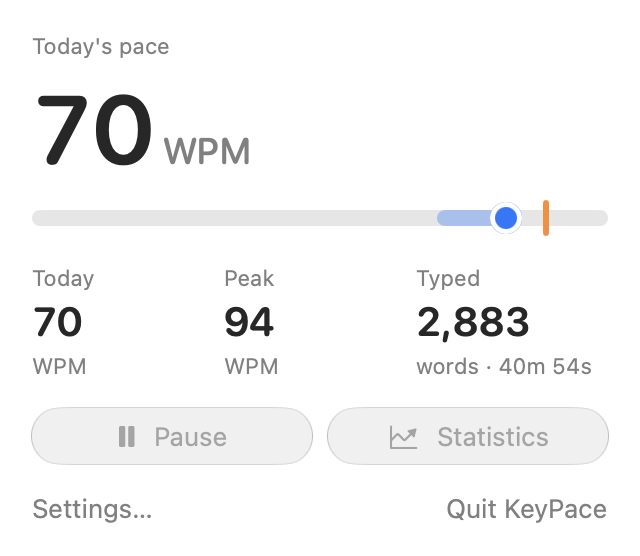
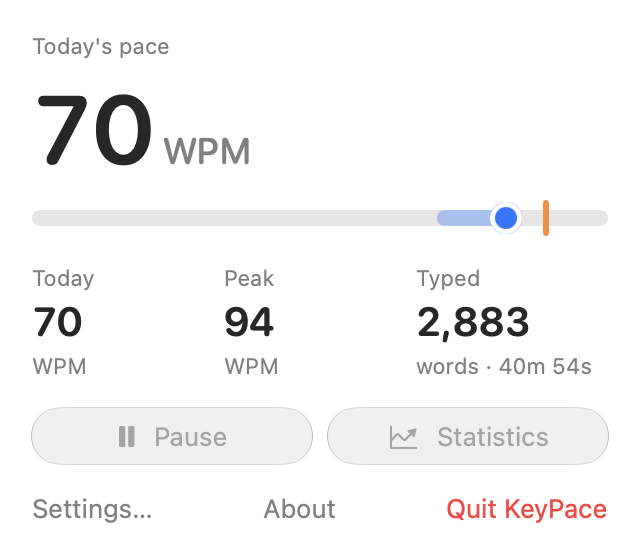
Show Quit KeyPace in red in the menu bar popover
Quitting stops tracking, so it gets the destructive role and red text.
Menu bar screenshot updated to show the new footer.

Changed region(s): [[0.6875, 0.8867, 0.9375, 0.9478], [0.4062, 0.8867, 0.5312, 0.9478]]

diff --git a/Sources/KeyPace/MenuBarView.swift b/Sources/KeyPace/MenuBarView.swift
@@ -69,8 +69,10 @@ struct MenuBarView: View {
                 Spacer()
                 Button("About") { About.show() }
                 Spacer()
-                Button("Quit KeyPace") { NSApp.terminate(nil) }
+                // Red: quitting stops tracking, unlike the other footer actions.
+                Button("Quit KeyPace", role: .destructive) { NSApp.terminate(nil) }
                     .keyboardShortcut("q")
+                    .foregroundStyle(.red)
             }
             .buttonStyle(.borderless)
             .foregroundStyle(.secondary)

diff --git a/README.md b/README.md
@@ -43,7 +43,7 @@ It counts keystrokes only. The text you type is never read, stored or sent anywh
 </table>
 
 <p align="center">
-  <img src="docs/screenshots/menubar.png" alt="Menu bar popover showing today's pace, peak and words typed, with Pause and Statistics buttons" width="320"><br>
+  <img src="docs/screenshots/menubar.png" alt="Menu bar popover showing today's pace, peak and words typed, with Pause and Statistics buttons, and Settings, About and a red Quit KeyPace at the bottom" width="320"><br>
   <b>Menu bar</b>: live pace while you type
 </p>
 
